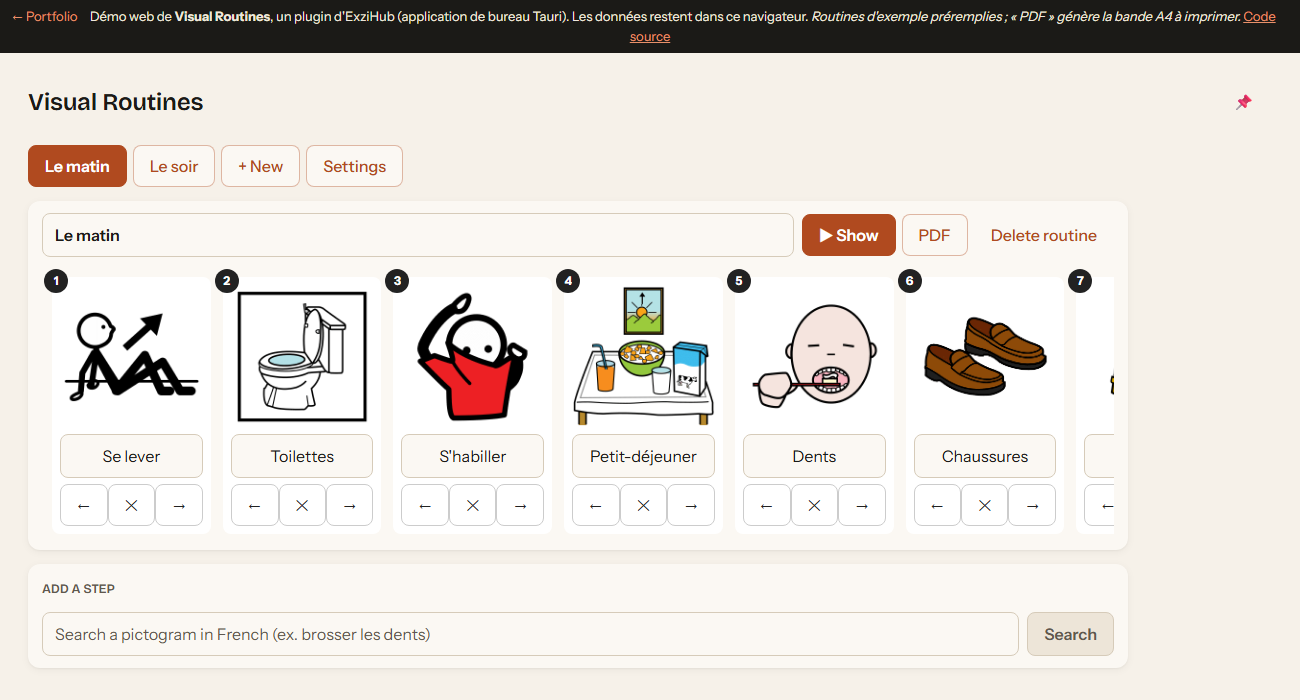
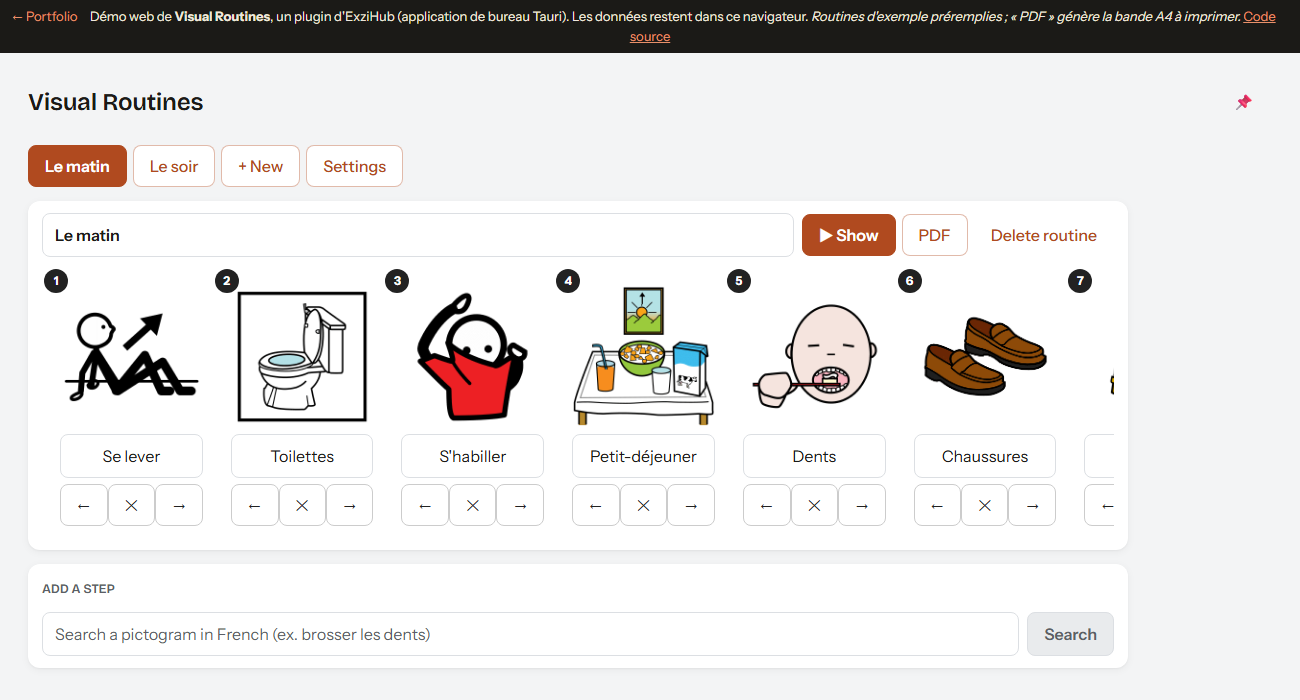
Thème des démos : fond neutre, icône d'onglet

diff --git a/plugins/routines/theme-vitrine.css b/plugins/routines/theme-vitrine.css
@@ -18,12 +18,12 @@
 }
 
 html:root {
-  --bg: #f6f1e9;
-  --panel: #fbf8f3;
-  --panel-2: #ede5d8;
+  --bg: #f3f4f5;
+  --panel: #ffffff;
+  --panel-2: #e9ebed;
   --text: #1b1a17;
-  --muted: #5f584e;
-  --border: #d6cbb9;
+  --muted: #5b5f66;
+  --border: #dcdfe3;
   --accent: #b04a1f;
   --accent-2: #d9774a;
   --tint-accent: rgba(176, 74, 31, .09);

diff --git a/plugins/routines/index.html b/plugins/routines/index.html
@@ -5,6 +5,7 @@
     <meta name="viewport" content="width=device-width, initial-scale=1" />
     <title>Visual Routines (démo)</title>
     <link rel="stylesheet" href="./theme-vitrine.css" />
+    <link rel="icon" href="/favicon.svg" type="image/svg+xml" />
   </head>
   <body>
     <div class="bandeau-demo">
